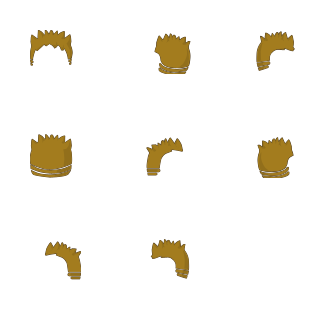
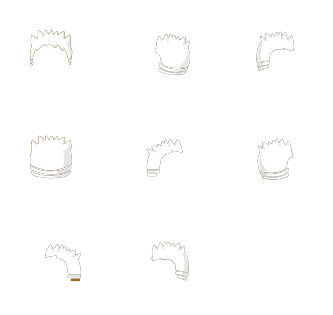
Save

diff --git a/src/game/avatar/Avatar.ts b/src/game/avatar/Avatar.ts
@@ -92,6 +92,8 @@ export class Avatar extends Container implements IAvatar {
     this.directionText.x = 50;
     this.directionText.y = 120;
 
+    this.hair.tint = 0x000000;
+
     this.addChild(this.directionText);
 
     this.renderParts();
